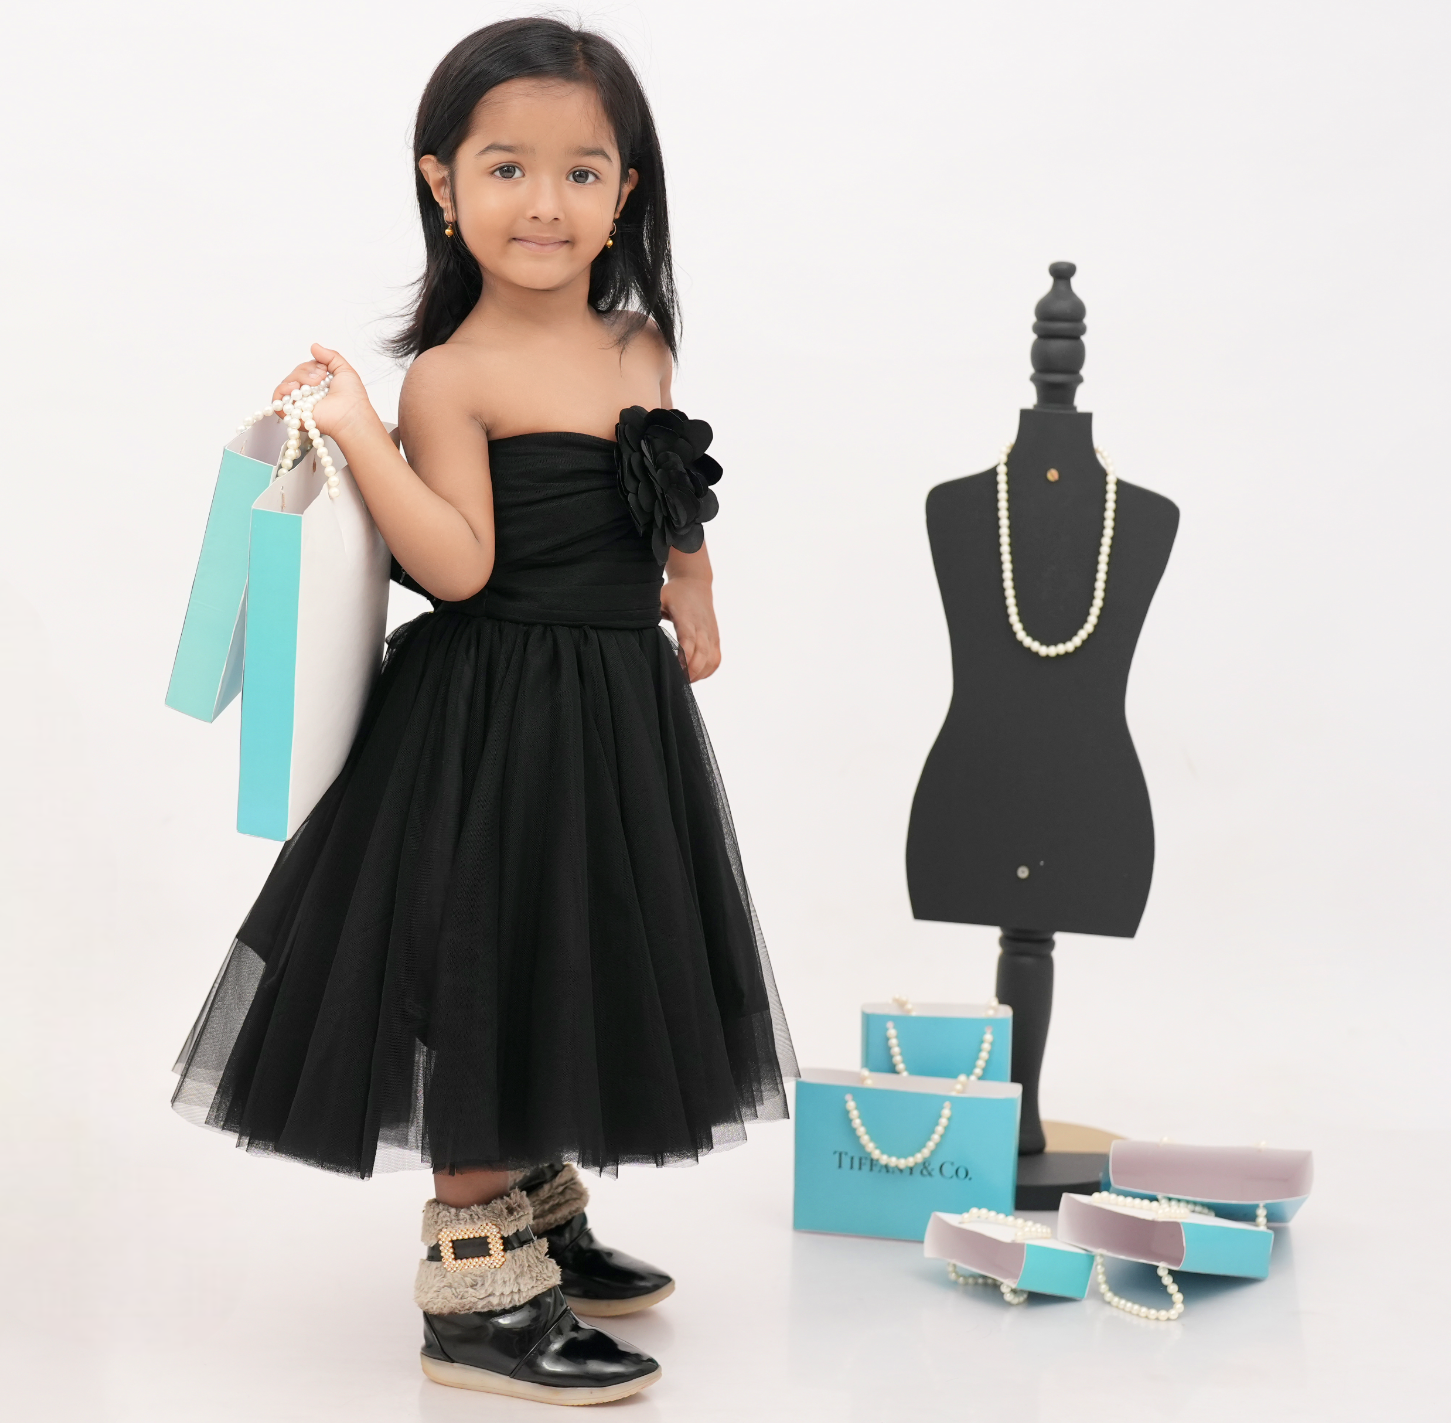
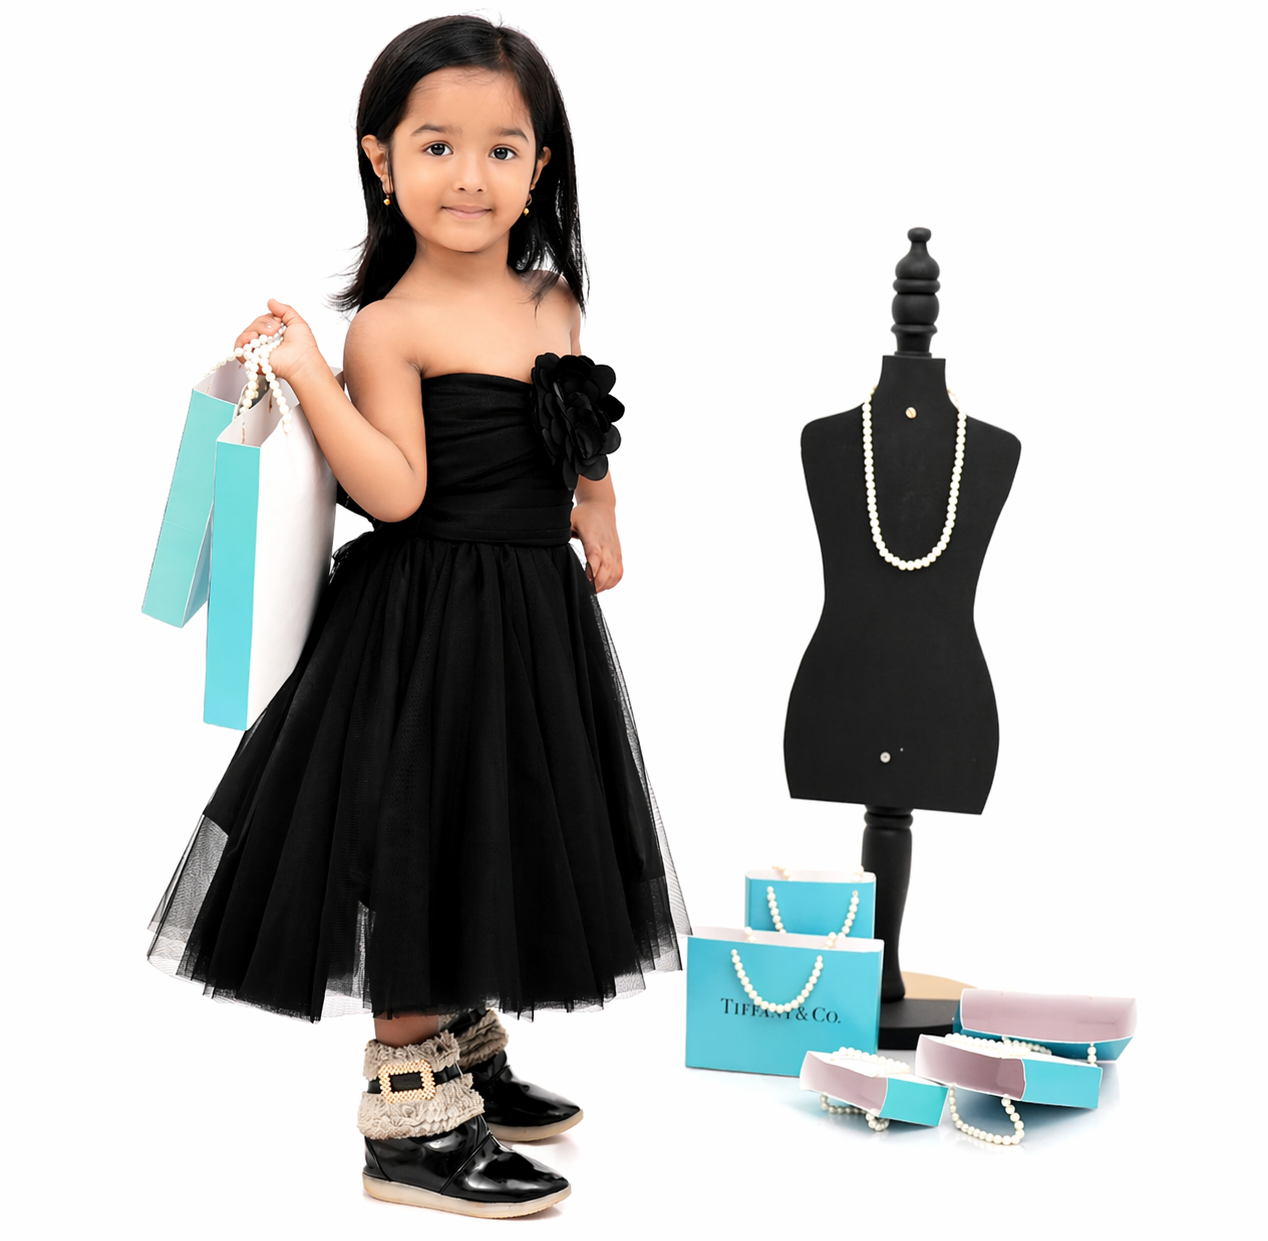
updated the about us image and hamberge button

Changed region(s): [[0.0, 0.0, 0.9535, 1.0]]

diff --git a/client/src/styles/navbar/Navbar.css b/client/src/styles/navbar/Navbar.css
@@ -288,10 +288,13 @@ nav.sidebar-open {
 /* ── Sidebar Overlay ── */
 .sidebar-overlay {
   position: fixed;
-  inset: 0;
-  background: rgba(0, 0, 0, 0.5);
+  top: 0;
+  left: 0;
+  width: 100%;
+  height: 100vh;
+  background: rgba(0, 0, 0, 0.4);
   backdrop-filter: blur(4px);
-  z-index: 2000;
+  z-index: 9998;
   opacity: 0;
   pointer-events: none;
   visibility: hidden;
@@ -315,7 +318,7 @@ nav.sidebar-open {
   height: 100vh;
   height: 100dvh;
   background: #1e293b;
-  z-index: 2001;
+  z-index: 9999;
   display: flex;
   flex-direction: column;
   box-shadow: -8px 0 32px rgba(0, 0, 0, 0.3);
@@ -612,7 +615,7 @@ nav.sidebar-open {
 
 /* Global Navbar Padding fix for desktop & mobile */
 body.has-navbar {
-  padding-top: 40px;
+  padding-top: 140px;
 }
 
 body.collections-path {

diff --git a/client/src/components/homepage/Hero.jsx b/client/src/components/homepage/Hero.jsx
@@ -1,4 +1,5 @@
 import { ArrowRight } from 'lucide-react';
+import { Link } from 'react-router-dom';
 import { useState, useEffect } from 'react';
 import '../../styles/homepage/Hero.css';
 
@@ -91,10 +92,10 @@ export default function Hero() {
               Designed for comfort, style, and every little adventure from ages 0–12.
             </p>
 
-            <a href="#collections" className="btn-collection">
+            <Link to="/collections" className="btn-collection">
               View Collection
               <ArrowRight size={18} />
-            </a>
+            </Link>
 
             <div className="trust-bar">
               <div className="trust-avatars">

diff --git a/client/src/styles/homepage/Hero.css b/client/src/styles/homepage/Hero.css
@@ -4,7 +4,7 @@
 .hero-section {
   width: 100%;
   padding: 0 0 40px;
-  margin-top: -30px;
+  margin-top: -10px;
   display: flex;
   align-items: flex-start;
 
@@ -21,7 +21,7 @@
   display: grid;
   grid-template-columns: auto auto;
   justify-content: center;
-  gap: 80px;
+  gap: 30px;
   align-items: end;
   width: 100%;
 }
@@ -214,7 +214,7 @@
   position: relative;
   z-index: 5;
   width: 100%;
-  max-width: 450px;
+  max-width: 520px;
   height: auto;
   object-fit: contain;
   filter: drop-shadow(0 20px 60px rgba(0, 0, 0, 0.08));
@@ -237,7 +237,7 @@
   }
 
   .hero-visuals {
-    margin-top: -30px;
+    margin-top: 0.25rem;
   }
 
   .hero-tag {
